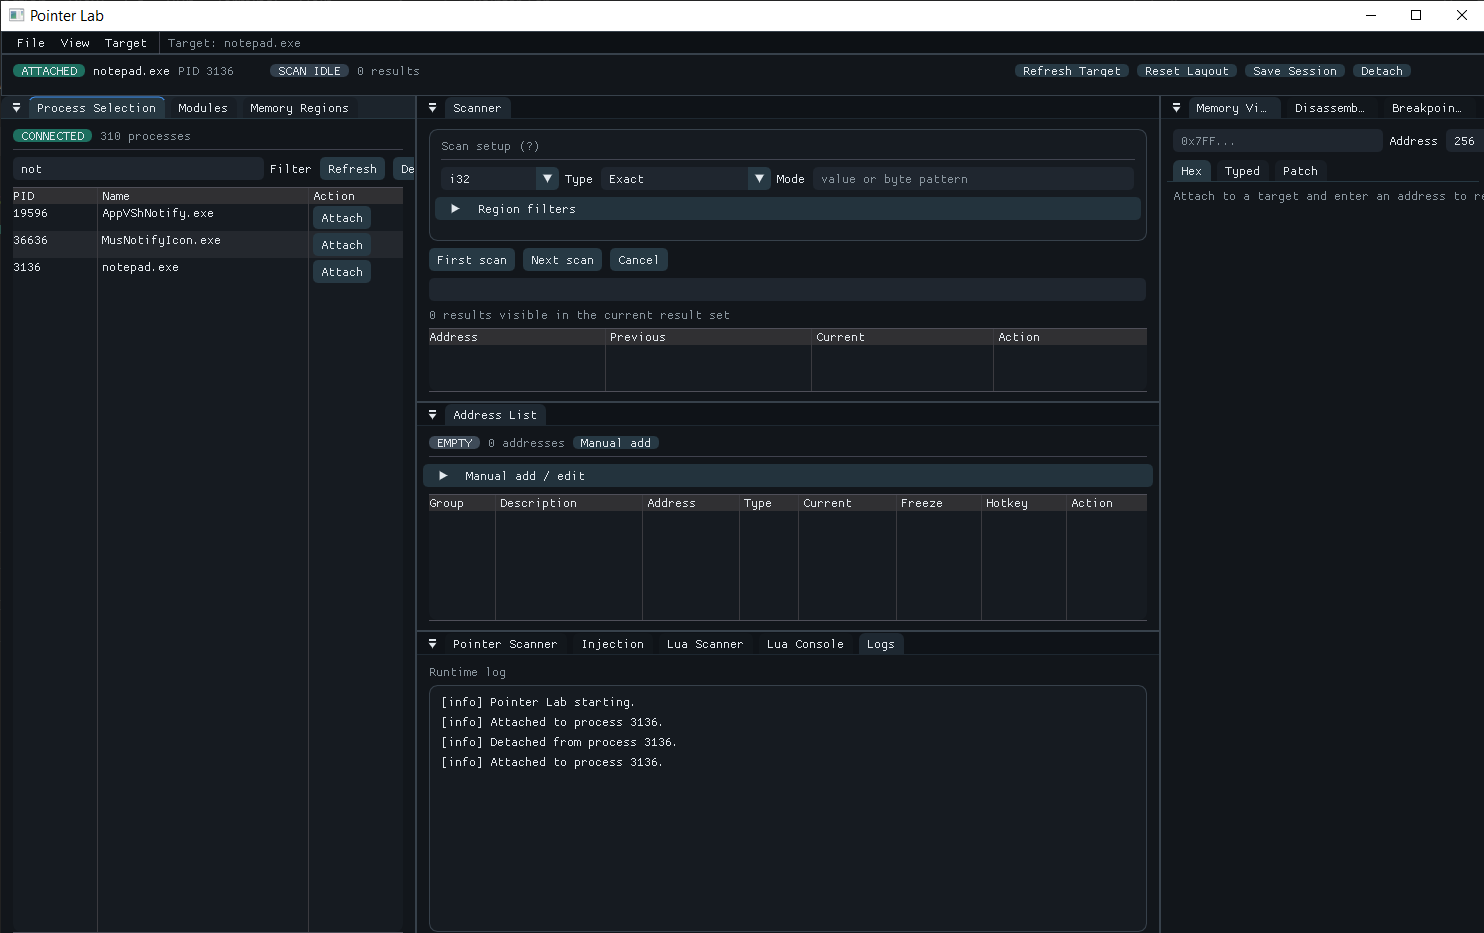
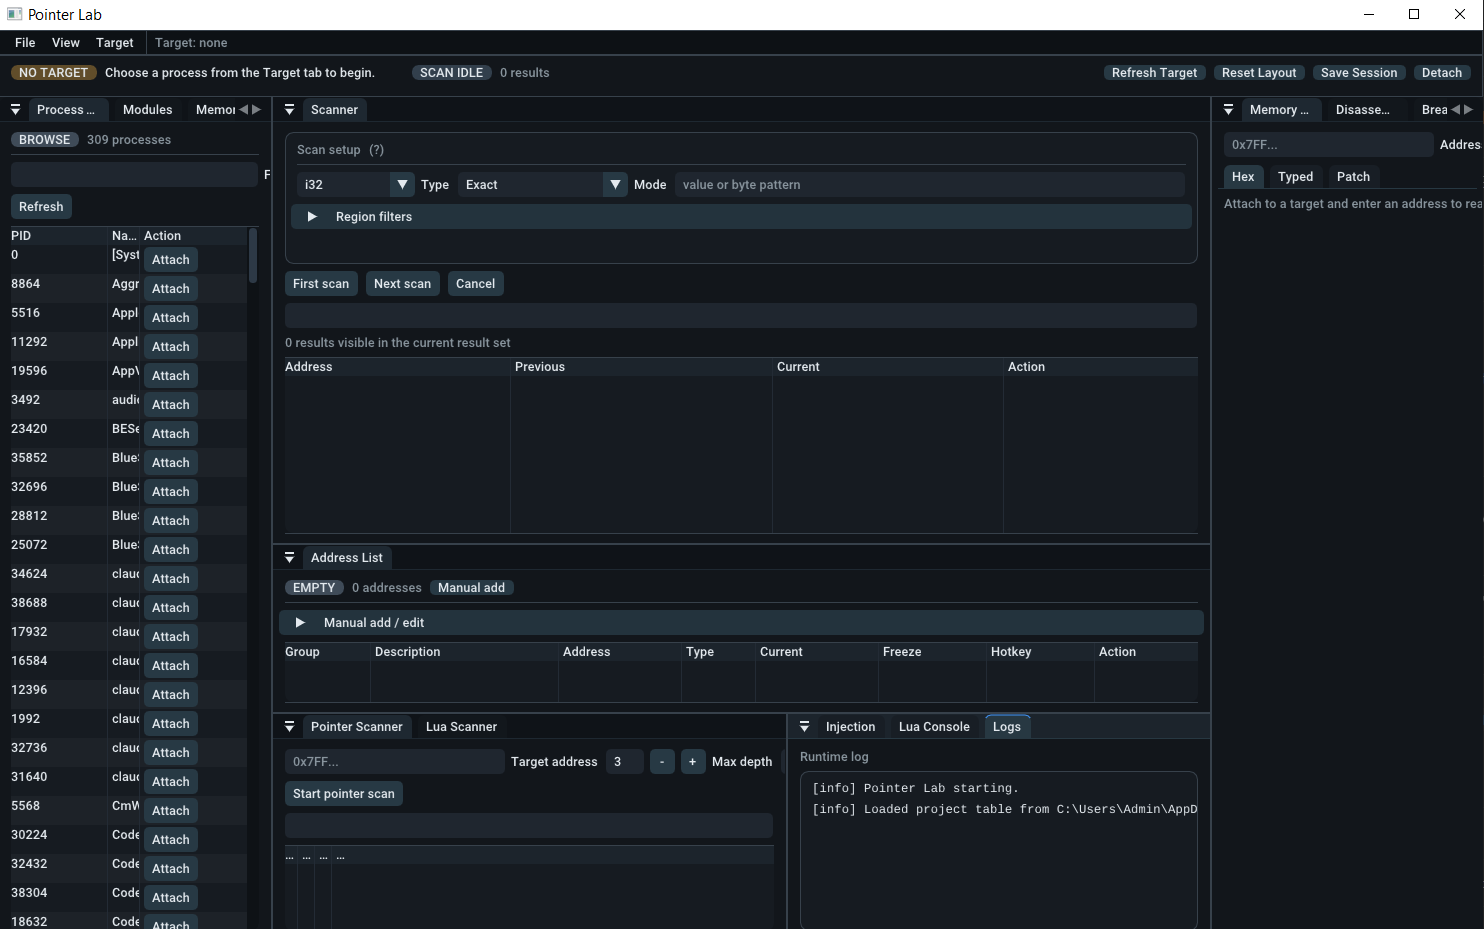
UI Improvements

Changed region(s): [[0.0, 0.0, 1.0, 1.0], [0.7439, 0.8428, 0.8059, 0.8741]]

diff --git a/src/ui/UiApp.cpp b/src/ui/UiApp.cpp
@@ -340,55 +340,84 @@ void UiApp::render() {
 }
 
 void UiApp::applyStyle() {
+    ImGuiIO& io = ImGui::GetIO();
+    const auto fontsDir = infra::Paths::fontsDir();
+    const auto roboto  = (fontsDir / "Roboto-Medium.ttf").string();
+    const auto cousine = (fontsDir / "Cousine-Regular.ttf").string();
+    io.Fonts->AddFontFromFileTTF(roboto.c_str(), 15.0f);
+    monoFont_ = io.Fonts->AddFontFromFileTTF(cousine.c_str(), 14.0f);
+    if (!monoFont_) monoFont_ = io.FontDefault;
+
     ImGui::StyleColorsDark();
     ImGuiStyle& style = ImGui::GetStyle();
-    style.WindowPadding = ImVec2(12.0f, 10.0f);
-    style.FramePadding = ImVec2(8.0f, 5.0f);
-    style.ItemSpacing = ImVec2(8.0f, 7.0f);
-    style.ItemInnerSpacing = ImVec2(6.0f, 5.0f);
-    style.WindowRounding = 9.0f;
-    style.ChildRounding = 8.0f;
-    style.FrameRounding = 5.0f;
-    style.PopupRounding = 7.0f;
-    style.GrabRounding = 5.0f;
-    style.TabRounding = 6.0f;
+    style.WindowPadding     = ImVec2(12.0f, 10.0f);
+    style.FramePadding      = ImVec2(8.0f, 5.0f);
+    style.ItemSpacing       = ImVec2(8.0f, 7.0f);
+    style.ItemInnerSpacing  = ImVec2(6.0f, 5.0f);
+    style.WindowRounding    = 9.0f;
+    style.ChildRounding     = 8.0f;
+    style.FrameRounding     = 5.0f;
+    style.PopupRounding     = 7.0f;
+    style.GrabRounding      = 5.0f;
+    style.TabRounding       = 6.0f;
     style.ScrollbarRounding = 6.0f;
-    style.WindowBorderSize = 1.0f;
-    style.ChildBorderSize = 1.0f;
-    style.FrameBorderSize = 0.0f;
+    style.WindowBorderSize  = 1.0f;
+    style.ChildBorderSize   = 1.0f;
+    style.FrameBorderSize   = 0.0f;
+    style.IndentSpacing     = 14.0f;
+    style.ScrollbarSize     = 12.0f;
+    style.GrabMinSize       = 8.0f;
 
     auto& colors = style.Colors;
-    colors[ImGuiCol_WindowBg] = colorFromBytes(18, 22, 27);
-    colors[ImGuiCol_ChildBg] = colorFromBytes(22, 27, 33);
-    colors[ImGuiCol_PopupBg] = colorFromBytes(25, 30, 37);
-    colors[ImGuiCol_Border] = colorFromBytes(55, 65, 75);
-    colors[ImGuiCol_FrameBg] = colorFromBytes(31, 38, 47);
+    colors[ImGuiCol_WindowBg]       = colorFromBytes(18, 22, 27);
+    colors[ImGuiCol_ChildBg]        = colorFromBytes(22, 27, 33);
+    colors[ImGuiCol_PopupBg]        = colorFromBytes(25, 30, 37);
+    colors[ImGuiCol_Border]         = colorFromBytes(55, 65, 75);
+    colors[ImGuiCol_FrameBg]        = colorFromBytes(31, 38, 47);
     colors[ImGuiCol_FrameBgHovered] = colorFromBytes(41, 52, 63);
-    colors[ImGuiCol_FrameBgActive] = colorFromBytes(50, 63, 76);
-    colors[ImGuiCol_TitleBg] = colorFromBytes(15, 19, 24);
-    colors[ImGuiCol_TitleBgActive] = colorFromBytes(28, 36, 44);
-    colors[ImGuiCol_MenuBarBg] = colorFromBytes(13, 17, 21);
-    colors[ImGuiCol_Button] = colorFromBytes(39, 57, 68);
-    colors[ImGuiCol_ButtonHovered] = colorFromBytes(54, 79, 94);
-    colors[ImGuiCol_ButtonActive] = colorFromBytes(69, 98, 113);
-    colors[ImGuiCol_Header] = colorFromBytes(35, 51, 61);
-    colors[ImGuiCol_HeaderHovered] = colorFromBytes(50, 73, 86);
-    colors[ImGuiCol_HeaderActive] = colorFromBytes(64, 92, 105);
-    colors[ImGuiCol_Tab] = colorFromBytes(24, 30, 37);
-    colors[ImGuiCol_TabHovered] = colorFromBytes(61, 91, 104);
-    colors[ImGuiCol_TabSelected] = colorFromBytes(39, 56, 66);
-    colors[ImGuiCol_TabDimmed] = colorFromBytes(18, 23, 28);
-    colors[ImGuiCol_TabDimmedSelected] = colorFromBytes(30, 40, 49);
-    colors[ImGuiCol_DockingPreview] = colorFromBytes(92, 166, 184, 180);
-    colors[ImGuiCol_CheckMark] = colorFromBytes(114, 211, 189);
-    colors[ImGuiCol_SliderGrab] = colorFromBytes(101, 177, 194);
-    colors[ImGuiCol_SliderGrabActive] = colorFromBytes(126, 214, 225);
-    colors[ImGuiCol_ResizeGrip] = colorFromBytes(61, 91, 104, 90);
-    colors[ImGuiCol_ResizeGripHovered] = colorFromBytes(92, 166, 184, 160);
-    colors[ImGuiCol_Text] = colorFromBytes(227, 233, 238);
-    colors[ImGuiCol_TextDisabled] = colorFromBytes(137, 149, 158);
+    colors[ImGuiCol_FrameBgActive]  = colorFromBytes(50, 63, 76);
+    colors[ImGuiCol_TitleBg]        = colorFromBytes(15, 19, 24);
+    colors[ImGuiCol_TitleBgActive]  = colorFromBytes(28, 36, 44);
+    colors[ImGuiCol_MenuBarBg]      = colorFromBytes(13, 17, 21);
+    colors[ImGuiCol_Button]         = colorFromBytes(39, 57, 68);
+    colors[ImGuiCol_ButtonHovered]  = colorFromBytes(54, 79, 94);
+    colors[ImGuiCol_ButtonActive]   = colorFromBytes(69, 98, 113);
+    colors[ImGuiCol_Header]         = colorFromBytes(35, 51, 61);
+    colors[ImGuiCol_HeaderHovered]  = colorFromBytes(50, 73, 86);
+    colors[ImGuiCol_HeaderActive]   = colorFromBytes(64, 92, 105);
+    colors[ImGuiCol_Tab]            = colorFromBytes(24, 30, 37);
+    colors[ImGuiCol_TabHovered]     = colorFromBytes(61, 91, 104);
+    colors[ImGuiCol_TabSelected]    = colorFromBytes(39, 56, 66);
+    colors[ImGuiCol_TabDimmed]      = colorFromBytes(18, 23, 28);
+    colors[ImGuiCol_TabDimmedSelected]  = colorFromBytes(30, 40, 49);
+    colors[ImGuiCol_DockingPreview]     = colorFromBytes(92, 166, 184, 180);
+    colors[ImGuiCol_CheckMark]          = colorFromBytes(114, 211, 189);
+    colors[ImGuiCol_SliderGrab]         = colorFromBytes(101, 177, 194);
+    colors[ImGuiCol_SliderGrabActive]   = colorFromBytes(126, 214, 225);
+    colors[ImGuiCol_ResizeGrip]         = colorFromBytes(61, 91, 104, 90);
+    colors[ImGuiCol_ResizeGripHovered]  = colorFromBytes(92, 166, 184, 160);
+    colors[ImGuiCol_Text]               = colorFromBytes(227, 233, 238);
+    colors[ImGuiCol_TextDisabled]       = colorFromBytes(137, 149, 158);
 
-    if (ImGui::GetIO().ConfigFlags & ImGuiConfigFlags_ViewportsEnable) {
+    colors[ImGuiCol_ScrollbarBg]          = colorFromBytes(14, 18, 22);
+    colors[ImGuiCol_ScrollbarGrab]        = colorFromBytes(45, 57, 70);
+    colors[ImGuiCol_ScrollbarGrabHovered] = colorFromBytes(60, 75, 90);
+    colors[ImGuiCol_ScrollbarGrabActive]  = colorFromBytes(80, 100, 115);
+
+    colors[ImGuiCol_TableHeaderBg]    = colorFromBytes(28, 36, 44);
+    colors[ImGuiCol_TableBorderStrong]= colorFromBytes(55, 65, 75);
+    colors[ImGuiCol_TableBorderLight] = colorFromBytes(35, 43, 53);
+    colors[ImGuiCol_TableRowBg]       = colorFromBytes(0, 0, 0, 0);
+    colors[ImGuiCol_TableRowBgAlt]    = colorFromBytes(255, 255, 255, 8);
+
+    colors[ImGuiCol_Separator]        = colorFromBytes(55, 65, 75);
+    colors[ImGuiCol_SeparatorHovered] = colorFromBytes(92, 166, 184);
+    colors[ImGuiCol_SeparatorActive]  = colorFromBytes(126, 214, 225);
+
+    colors[ImGuiCol_NavCursor]        = colorFromBytes(101, 177, 194, 200);
+    colors[ImGuiCol_ModalWindowDimBg] = colorFromBytes(0, 0, 0, 120);
+
+    if (io.ConfigFlags & ImGuiConfigFlags_ViewportsEnable) {
         style.WindowRounding = 0.0f;
         colors[ImGuiCol_WindowBg].w = 1.0f;
     }
@@ -415,6 +444,8 @@ void UiApp::buildDefaultDockLayout(ImGuiID dockspaceId, const ImVec2& size) {
     ImGuiID left{};
     ImGuiID right{};
     ImGuiID bottom{};
+    ImGuiID bottomLeft{};
+    ImGuiID bottomRight{};
     ImGuiID center{};
     ImGuiID centerBottom{};
     ImGuiID centerTop{};
@@ -422,6 +453,7 @@ void UiApp::buildDefaultDockLayout(ImGuiID dockspaceId, const ImVec2& size) {
     ImGui::DockBuilderSplitNode(dockspaceId, ImGuiDir_Left, 0.22f, &left, &center);
     ImGui::DockBuilderSplitNode(center, ImGuiDir_Right, 0.28f, &right, &center);
     ImGui::DockBuilderSplitNode(center, ImGuiDir_Down, 0.34f, &bottom, &center);
+    ImGui::DockBuilderSplitNode(bottom, ImGuiDir_Right, 0.45f, &bottomRight, &bottomLeft);
     ImGui::DockBuilderSplitNode(center, ImGuiDir_Down, 0.38f, &centerBottom, &centerTop);
 
     ImGui::DockBuilderDockWindow("Process Selection", left);
@@ -435,11 +467,11 @@ void UiApp::buildDefaultDockLayout(ImGuiID dockspaceId, const ImVec2& size) {
     ImGui::DockBuilderDockWindow("Disassembly", right);
     ImGui::DockBuilderDockWindow("Breakpoints", right);
 
-    ImGui::DockBuilderDockWindow("Pointer Scanner", bottom);
-    ImGui::DockBuilderDockWindow("Lua Scanner", bottom);
-    ImGui::DockBuilderDockWindow("Injection", bottom);
-    ImGui::DockBuilderDockWindow("Lua Console", bottom);
-    ImGui::DockBuilderDockWindow("Logs", bottom);
+    ImGui::DockBuilderDockWindow("Pointer Scanner", bottomLeft);
+    ImGui::DockBuilderDockWindow("Lua Scanner", bottomLeft);
+    ImGui::DockBuilderDockWindow("Injection", bottomRight);
+    ImGui::DockBuilderDockWindow("Lua Console", bottomRight);
+    ImGui::DockBuilderDockWindow("Logs", bottomRight);
 
     ImGui::DockBuilderFinish(dockspaceId);
     infra::Logger::instance().info("Applied default IDE layout.");
@@ -519,7 +551,18 @@ void UiApp::renderCommandBar() {
     ImGui::SameLine();
     ImGui::TextDisabled("%zu results", scanProgress.results);
 
-    ImGui::SameLine(ImGui::GetWindowWidth() - 470.0f);
+    {
+        const ImGuiStyle& st = ImGui::GetStyle();
+        const float pad = st.FramePadding.x * 2.0f;
+        const float sp  = st.ItemSpacing.x;
+        const float buttonsWidth =
+            ImGui::CalcTextSize("Refresh Target").x + pad +
+            ImGui::CalcTextSize("Reset Layout").x   + pad +
+            ImGui::CalcTextSize("Save Session").x   + pad +
+            ImGui::CalcTextSize("Detach").x         + pad +
+            sp * 3.0f;
+        ImGui::SameLine(ImGui::GetWindowWidth() - buttonsWidth - st.WindowPadding.x);
+    }
     if (ImGui::SmallButton("Refresh Target")) {
         refreshProcesses();
         if (attached) {
@@ -550,14 +593,8 @@ void UiApp::renderProcessPanel() {
     ImGui::TextDisabled("%zu processes", processes_.size());
     ImGui::Separator();
 
-    const float spacing = ImGui::GetStyle().ItemSpacing.x;
-    const float pad = ImGui::GetStyle().FramePadding.x * 2.0f;
-    float reservedWidth = ImGui::CalcTextSize("Refresh").x + pad + spacing;
-    if (services_.session().attached())
-        reservedWidth += ImGui::CalcTextSize("Detach").x + pad + spacing;
-    ImGui::SetNextItemWidth(-reservedWidth);
+    ImGui::SetNextItemWidth(-1.0f);
     ImGui::InputText("Filter", processFilter_.data(), processFilter_.size());
-    ImGui::SameLine();
     if (ImGui::Button("Refresh")) {
         refreshProcesses();
     }
@@ -601,7 +638,7 @@ void UiApp::renderScanPanel() {
     ImGui::Begin("Scanner");
     const auto typeNames = valueTypeNames();
 
-    ImGui::BeginChild("scan-controls", ImVec2(0, 112.0f), true);
+    ImGui::BeginChild("scan-controls", ImVec2(0, 132.0f), true);
     ImGui::TextDisabled("Scan setup");
     ImGui::SameLine();
     helpMarker("Use Unknown initial for broad baselines, then Changed/Unchanged/Increased/Decreased for narrowing. Exact scans compare against the typed value.");
@@ -858,6 +895,7 @@ void UiApp::renderMemoryPanel() {
         if (ImGui::BeginTabItem("Hex")) {
             if (!bytes.empty()) {
                 ImGui::BeginChild("hex-view", ImVec2(0, 0), true, ImGuiWindowFlags_HorizontalScrollbar);
+                ImGui::PushFont(monoFont_, monoFont_->LegacySize);
                 const auto base = parseAddress(memoryAddress_.data()).value_or(0);
                 for (std::size_t row = 0; row < bytes.size(); row += 16) {
                     ImGui::Text("%s  ", domain::toHex(base + row).c_str());
@@ -876,6 +914,7 @@ void UiApp::renderMemoryPanel() {
                     }
                     ImGui::TextUnformatted(ascii.c_str());
                 }
+                ImGui::PopFont();
                 ImGui::EndChild();
             } else {
                 ImGui::TextDisabled("Attach to a target and enter an address to read memory.");
@@ -933,6 +972,7 @@ void UiApp::renderDisassemblyPanel() {
     const auto address = parseAddress(disasmAddress_.data());
     if (ImGui::BeginTabBar("disasm-tabs")) {
         if (ImGui::BeginTabItem("Listing")) {
+            ImGui::PushFont(monoFont_, monoFont_->LegacySize);
             if (address && services_.session().attached()) {
                 auto instructions = services_.disassembler().disassemble(services_.session(), *address, 64);
                 if (ImGui::BeginTable("disasm", 3, denseTableFlags | ImGuiTableFlags_ScrollY, ImVec2(0, 0))) {
@@ -954,6 +994,7 @@ void UiApp::renderDisassemblyPanel() {
             } else {
                 ImGui::TextDisabled("Attach and enter an address to disassemble around it.");
             }
+            ImGui::PopFont();
             ImGui::EndTabItem();
         }
         if (ImGui::BeginTabItem("Assembler Patch")) {
@@ -996,7 +1037,7 @@ void UiApp::renderBreakpointPanel() {
     ImGui::SetNextItemWidth(-120.0f);
     ImGui::InputTextWithHint("Label", "optional name", breakpointLabel_.data(), breakpointLabel_.size());
     ImGui::SameLine();
-    if (ImGui::Button("Set software breakpoint")) {
+    if (ImGui::Button("Set breakpoint")) {
         if (auto address = parseAddress(breakpointAddress_.data())) {
             if (auto result = services_.breakpoints().addBreakpoint(*address, breakpointLabel_.data()); !result) {
                 infra::Logger::instance().error("Breakpoint failed: " + result.error());
@@ -1120,9 +1161,11 @@ void UiApp::renderPointerPanel() {
             services_.pointerScanJob().start(options);
         }
     }
-    ImGui::SameLine();
-    if (ImGui::Button("Cancel pointer scan")) {
-        services_.pointerScanJob().cancel();
+    if (services_.pointerScanJob().progress().running) {
+        ImGui::SameLine();
+        if (ImGui::Button("Cancel pointer scan")) {
+            services_.pointerScanJob().cancel();
+        }
     }
     const auto progress = services_.pointerScanJob().progress();
     ImGui::ProgressBar(static_cast<float>(progress.fraction), ImVec2(-1, 0), progress.status.c_str());
@@ -1317,7 +1360,12 @@ void UiApp::renderLuaPanel() {
     if (ImGui::CollapsingHeader("API quick reference")) {
         ImGui::TextWrapped("processes(), attach(pid), detach(), read_u32(addr), write_u32(addr,val), read_bytes(addr,n), write_bytes(addr,hex), scan_exact_i32(v), scan_unknown_i32(), add_address(addr,type,desc,group), alloc(size), thread(start,param), loadlibrary(path)");
     }
-    ImGui::InputTextMultiline("Lua", luaInput_.data(), luaInput_.size(), ImVec2(-1, 170));
+    const float available = ImGui::GetContentRegionAvail().y;
+    const float buttonsRowH = ImGui::GetFrameHeightWithSpacing();
+    const float splitH = std::max(60.0f, (available - buttonsRowH) * 0.5f);
+    ImGui::PushFont(monoFont_, monoFont_->LegacySize);
+    ImGui::InputTextMultiline("Lua", luaInput_.data(), luaInput_.size(), ImVec2(-1, splitH));
+    ImGui::PopFont();
     if (ImGui::Button("Run Lua")) {
         const auto output = lua_.run(luaInput_.data());
         luaOutput_.insert(luaOutput_.end(), output.begin(), output.end());
@@ -1326,10 +1374,12 @@ void UiApp::renderLuaPanel() {
     if (ImGui::Button("Clear output")) {
         luaOutput_.clear();
     }
-    ImGui::BeginChild("lua-output", ImVec2(0, 180), true);
+    ImGui::BeginChild("lua-output", ImVec2(0, splitH), true);
+    ImGui::PushFont(monoFont_, monoFont_->LegacySize);
     for (const auto& line : luaOutput_) {
         ImGui::TextUnformatted(line.c_str());
     }
+    ImGui::PopFont();
     if (ImGui::GetScrollY() >= ImGui::GetScrollMaxY()) {
         ImGui::SetScrollHereY(1.0f);
     }
@@ -1341,9 +1391,11 @@ void UiApp::renderLogPanel() {
     ImGui::Begin("Logs");
     ImGui::TextDisabled("Runtime log");
     ImGui::BeginChild("log-scroll", ImVec2(0, 0), true);
+    ImGui::PushFont(monoFont_, monoFont_->LegacySize);
     for (const auto& record : infra::Logger::instance().snapshot()) {
         ImGui::Text("[%s] %s", infra::Logger::levelName(record.level), record.message.c_str());
     }
+    ImGui::PopFont();
     if (ImGui::GetScrollY() >= ImGui::GetScrollMaxY()) {
         ImGui::SetScrollHereY(1.0f);
     }

diff --git a/src/infra/Paths.cpp b/src/infra/Paths.cpp
@@ -29,5 +29,11 @@ std::filesystem::path Paths::crashFile() {
     return appData() / "crash.log";
 }
 
+std::filesystem::path Paths::fontsDir() {
+    std::array<wchar_t, MAX_PATH> buffer{};
+    GetModuleFileNameW(nullptr, buffer.data(), static_cast<DWORD>(buffer.size()));
+    return std::filesystem::path(buffer.data()).parent_path() / "resources" / "fonts";
+}
+
 } // namespace ire::infra
 

diff --git a/src/ui/UiApp.h b/src/ui/UiApp.h
@@ -70,6 +70,7 @@ private:
     ID3D11DeviceContext* deviceContext_{};
     IDXGISwapChain* swapChain_{};
     ID3D11RenderTargetView* renderTargetView_{};
+    ImFont* monoFont_{};
 
     services::RuntimeServices services_;
     scripting::LuaConsole lua_;

diff --git a/src/infra/Paths.h b/src/infra/Paths.h
@@ -11,6 +11,7 @@ public:
     static std::filesystem::path layoutFile();
     static std::filesystem::path sessionFile();
     static std::filesystem::path crashFile();
+    static std::filesystem::path fontsDir();
 };
 
 } // namespace ire::infra
